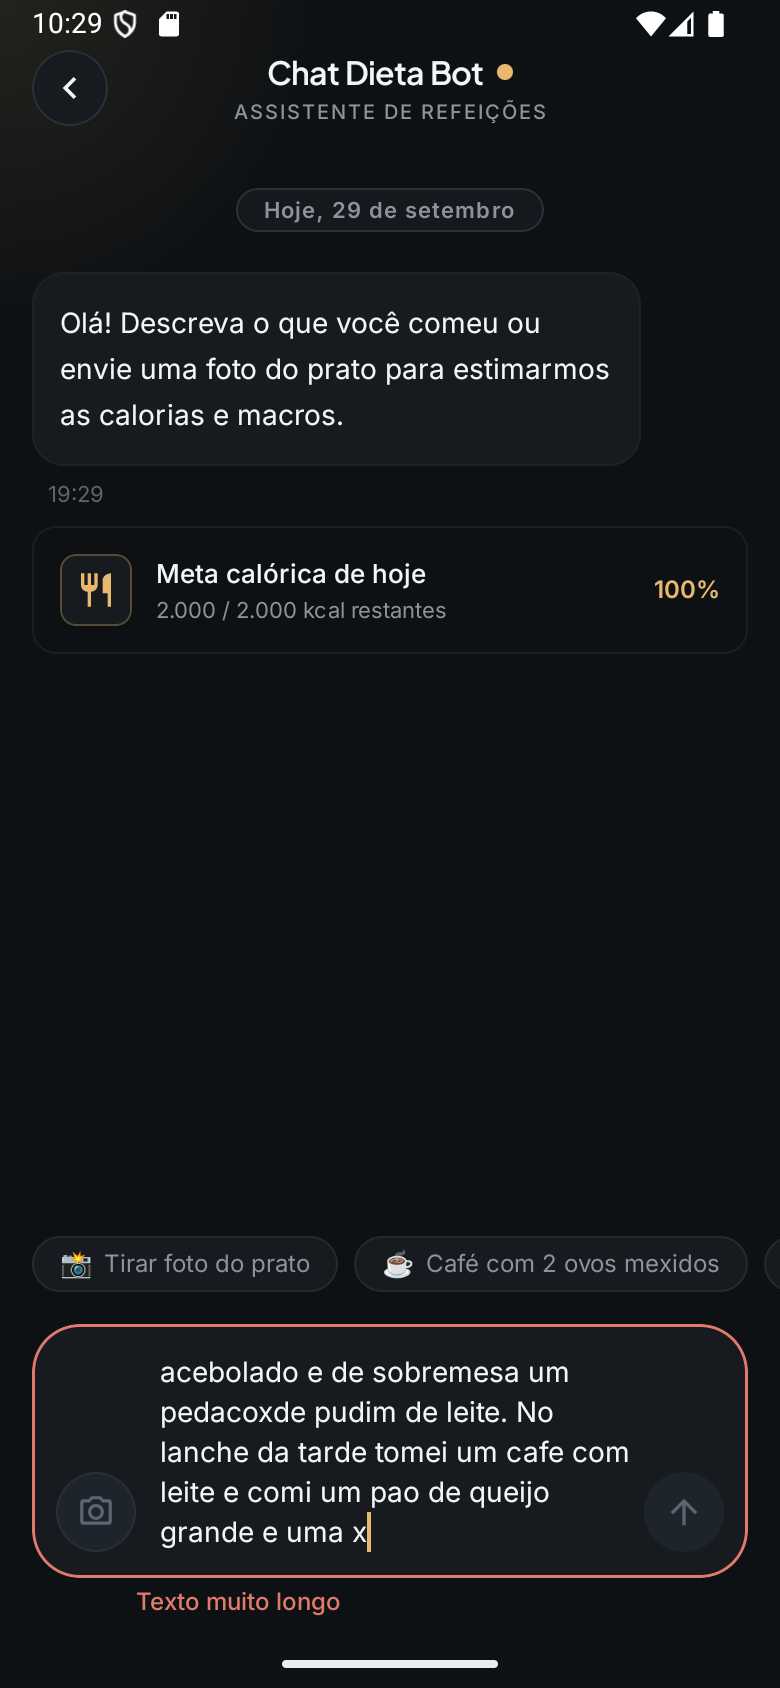
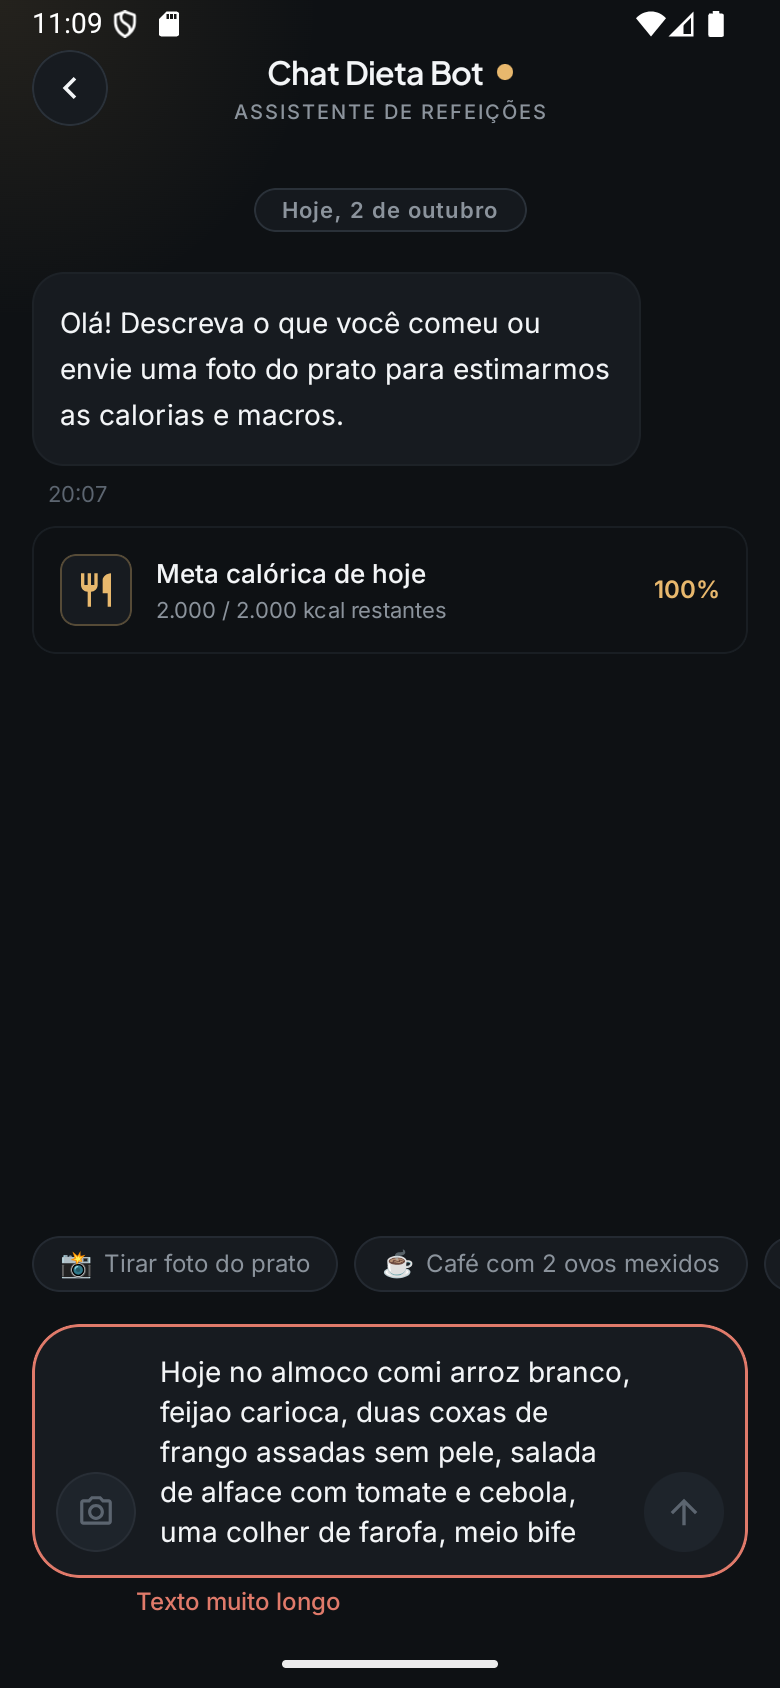
fix(qa): A36 chatX capture shows the top of the composer
The chatX scene typed 2100 characters and left the field scrolled to the
cursor at the end; the gold shows the first 5 lines. The scene now drags
the field to its first line with swipes (no key events: they flip Gboard
to physical-keyboard mode). diff-gold dark/chatX region 4.77% -> 0.89%.

diff --git a/docs/android/plans/completed/a36-capture-chatx-composer-topo.md b/docs/android/plans/completed/a36-capture-chatx-composer-topo.md
@@ -1,0 +1,123 @@
+# Plan — A36 capture-chat: chatX shows the top of the composer
+
+- Status: Concluído (02/10/2026)
+- Date: 02/10/2026
+- Owning context: `android`
+- Affected code: `tools/capture-chat.sh` only (client QA tooling). No app code, no `server/`, no gold change, no `tools/diff-gold.mjs` threshold or region change.
+- Prerequisites: none. No Stitch gate (the gold is unchanged and the layout already matches).
+
+## Authorization gate
+
+This plan is documentation only. Implementation starts only after an explicit approval naming this file:
+
+> Aprovo o plano `docs/android/plans/a36-capture-chatx-composer-topo.md`. Implemente o plano aprovado.
+
+If implementation reveals an uncovered decision, stop, update the artifacts and ask for a new approval.
+
+## Goal
+
+`node tools/diff-gold.mjs dark/chatX` passes its composer region gate (`REGIONS.chatX = [32, 1344, 748, 1668]`, ≤ 2 %) on a fresh `tools/capture-chat.sh` capture. Today it fails at 4.6–4.8 %. The committed capture (`docs/qa/android/current/dark/chatX.png`, from A25) scores 4.77 %, so the failure predates A34.
+
+## Root cause (measured 02/10/2026)
+
+The failure comes from the capture scene, not the Compose layout and not the gold.
+
+1. **The field shows the end of the text.** The A25 scene types 2100 characters with `adb shell input text`. The cursor ends at the last character, and `BasicTextField` (`maxLines = 5`) scrolls to keep the cursor visible. After `keyevent 4` hides the keyboard, the field keeps focus and stays scrolled to the end: "acebolado e de sobremesa um / pedacoxde pudim … / grande e uma x" plus the gold cursor. The gold (and `ChatFixtures.chatX`, used by the JVM `StitchGoldTest`) shows the **first** 5 lines, "Hoje no almoço comi arroz branco, / feijão carioca, …", with no cursor.
+2. **Attribution of the 4.77 %** (blurred diff at the best offset, dy = −46 px, same metric as `diff-gold.mjs`):
+   - text area (x 150–640, the 5 lines): **4.59 points**, about 96 % of the failing pixels;
+   - "Texto muito longo" line: 0.20 points (the known A25 offset: the app starts the label at the text field, 68 dp; the gold at 64 dp; measured 8 px);
+   - border, 24 dp radius, camera and send buttons, box height: 0.
+3. **Geometry matches** (measured in px, gold vs app): border x 32–747 in both; box height 255 vs 253; text start x 163 vs 162; line pitch ~39 vs ~40 px; gap from the border to the error line 15 px in both.
+4. **Why the JVM gate passes (0.82 %):** the fixture holds the gold's text, unfocused, scrolled to the top. Same layout, different content.
+5. A25 recorded this as "content, not layout" (`a25-limite-texto-composer.md`, emulator results), but `diff-gold.mjs` still gates the dark region. Every full run therefore exits 1.
+
+### Not a gold conflict (ADR-027)
+
+[ADR-027](../../adrs/ADR-027-golds-divergentes.md) covers disagreements between golds (state vs base, dark vs light) and spec vs gold rendering. None applies here: the dark gold, the light gold and the spec agree with the app's layout. The fix belongs to the capture scene. Adding `dark/chatX` to `REGION_REPORT_ONLY` would hide a real gate and is rejected.
+
+## Sources of truth
+
+- Gold `docs/qa/stitch/dark/chatX.png` (ST5), [A25](a25-limite-texto-composer.md), [ADR-022](../../../produto/adrs/ADR-022-limite-texto-chat.md) (text limit).
+- Code: `tools/capture-chat.sh` (chatX block, lines ~201–260), `tools/diff-gold.mjs` (`REGIONS.chatX`), `apps/android/.../feature/chat/ChatScreen.kt` (`Composer`, `ComposerRow`), `ChatFixtures.chatX`.
+
+## Implementation scope
+
+Only the chatX block of `tools/capture-chat.sh`.
+
+1. **Scroll to the top before the shot, by touch (revision 1).** After `keyevent 4` (keyboard hidden, field still focused, cursor at the end), drag the text field's content down with `input swipe` inside the `chat-input` bounds (from its top edge + 10 px to its bottom edge − 10 px, ~150 ms), repeated until the text is at the top (~2800 px of content: about 16 swipes; the script repeats a fixed count with margin). A drag scrolls the field without moving the cursor or emitting key events, so the IME stays in soft-keyboard mode.
+   - Before every swipe the script checks from a `uiautomator` dump that `chat-input` is present; if it is missing (the screen changed), it fails the scene with `✗` and does not send more input.
+   - Check `chat-too-long` is still shown, then `shot chatX`.
+2. **No cursor move after the shot.** The cursor never left the end, so the 100 backspaces still delete from the end. The existing checks (`2000: error gone`, `fake got 2000 characters`) confirm it. If the field scrolls back to the cursor on the first backspace, that is expected and harmless.
+3. **Leave alone:** the typed text. `adb input text` cannot type accents. In the first 5 lines only "almoço" and "feijão" differ from the ASCII text, and the line breaks match. The extra `x` at positions 2000 and 2100 sits far below line 5.
+
+The blinking cursor may appear at the start of line 1 in the capture (≤ 1 px wide gold bar). Its blurred footprint is estimated at under 0.1 % of the region; accepted.
+
+## Affected files
+
+- `tools/capture-chat.sh`.
+- `docs/qa/android/current/{dark,light}/chatX.png` (fresh captures, evidence).
+- `docs/android/README.md`, `docs/README.md` (plan index), this plan (lifecycle).
+
+## Planned validation
+
+1. `bash -n tools/capture-chat.sh`.
+2. On the gold-geometry AVD (`wm size 780x1688`, `wm density 320`) with `node tools/fake-chat-server.mjs` and the devDebug APK built with `-PAPI_PUBLIC_URL=http://10.0.2.2:8765`, dark and light: the chatX block of `tools/capture-chat.sh` runs, and its existing checks pass (`over 2000: Texto muito longo`, `camera did nothing`, `over 2000: 0 POST`, `2000: error gone`, fake gets 2000 characters).
+3. `node tools/diff-gold.mjs dark/chatX light/chatX`: dark region ≤ 2 % (gate), exit 0. The light region stays report-only (A25: the light gold paints the composer on the page colour); its new value is recorded.
+4. Written diff list (capture vs gold) in the results: layout, tokens, type size, radius, CTA, error line.
+5. No app code changes: `StitchGoldTest`, Roborazzi and unit tests are not affected and not required by this plan.
+
+## Out of scope
+
+- App code (`apps/android/`): the 4 dp start offset of "Texto muito longo" (68 vs 64 dp) stays as A25 recorded it (0.20 points, inside the gate).
+- `tools/diff-gold.mjs` regions, thresholds and report-only sets; golds; Stitch.
+- Typing accents through a third-party IME or clipboard tool (not needed for the gate; no new downloads).
+- Other capture scenes and the A33 flaky `input text` drop (already topped up by the script).
+
+## Risks and controls
+
+- **Key events are out (attempt 1):** no `keycombination`, DPAD or Home/End key before the shot; they flip Gboard to physical-keyboard mode and leave the chat (see § Implementation attempt 1).
+- **Drag does not scroll the field, or the field snaps back to the cursor:** stop and report; do not tap inside the field (a tap moves the cursor and reopens the keyboard). Remaining options then need an owner decision: a dev-only way to seed the composer text (app code, own plan) or a dated report-only exception for `dark/chatX` in `diff-gold.mjs`.
+- **A swipe lands outside the field after a screen change:** every swipe is preceded by a dump that finds `chat-input`; otherwise the scene fails without more input.
+- **Residual over 2 % after scrolling to the top:** stop, report the new attribution and propose the next step; do not loosen the gate.
+
+## Acceptance criteria
+
+- Fresh dark `chatX` capture shows the first 5 lines ("Hoje no almoco comi arroz branco, …"), red border and "Texto muito longo".
+- `node tools/diff-gold.mjs dark/chatX` region ≤ 2 %.
+- All existing A25 checks in the chatX block still pass.
+
+## Implementation attempt 1 (02/10/2026)
+
+Approved by the owner on 02/10/2026 ("Aprovo o plano `docs/android/plans/a36-capture-chatx-composer-topo.md`. Implemente o plano aprovado."). Stopped under § Risks and controls; nothing committed, `tools/capture-chat.sh` and the captures reverted.
+
+Setup: AVD `Medium_Phone` (API 36) at 780x1688 / 320 dpi, `node tools/fake-chat-server.mjs`, devDebug APK built with `-PAPI_PUBLIC_URL=http://10.0.2.2:8765`.
+
+- **Ctrl+Home (`input keycombination 113 122`)**: full `tools/capture-chat.sh dark` run. The A25 checks in the chatX block passed (`over 2000: Texto muito longo`, `camera did nothing`, `over 2000: 0 POST`, `2000: error gone`, `fake got 2000 characters`), but the cursor did not move: the field stayed at the end of the text. The key combination also switched Gboard to physical-keyboard mode, and its floating toolbar (mic, backspace, enter, emoji) covered the camera button and the left part of the composer. `diff-gold.mjs dark/chatX` region: **10.33 %** (was 4.77 %). Run stopped after the chatX block.
+- **DPAD fallback (`KEYCODE_DPAD_UP` × 30 + `KEYCODE_MOVE_HOME`)**, by hand on a 9-line text: the cursor stopped at the first *visible* line and the field did not scroll further. Two more DPAD_UP presses moved focus out of the field, and the app left Chat for Home. With Gboard in physical-keyboard mode, Back no longer only hid a keyboard: it closed Chat. Stray input after that opened system screens (a Google sign-in prompt and Quick Settings, both dismissed with Back/Home, nothing entered). The emulator was shut down (`-no-snapshot-save`, so its next boot is clean).
+- Conclusion: key events cannot move the composer to its first line reliably, and they change the IME mode for the rest of the run. Revision 1 replaces them with a touch drag (Implementation scope § 1–2). The drag itself is **not yet tested**.
+
+## Results (02/10/2026, revision 1)
+
+Revision 1 approved by the owner on 02/10/2026 ("Aprovo o plano `docs/android/plans/a36-capture-chatx-composer-topo.md`. Implemente o plano aprovado."). Same setup as attempt 1 (AVD `Medium_Phone`, API 36, 780x1688 / 320 dpi, fake server, devDebug APK on `http://10.0.2.2:8765`).
+
+- `tools/capture-chat.sh`, chatX block: after Back, 24 swipes (`input swipe`, 150 ms) from the top to the bottom of `chat-input`; each swipe preceded by a dump that finds the field, or `✗ chat-input gone while scrolling to the top` and no more input. No key events. Cursor left at the end; no change after the shot.
+- `bash -n tools/capture-chat.sh`: OK.
+- Dark, full run: the drag reached the first line ("Hoje no almoco comi arroz branco, / feijao carioca, duas coxas de / … / uma colher de farofa, meio bife", same line breaks as the gold), no cursor visible, keyboard and Gboard toolbar absent. A25 checks: `over 2000: Texto muito longo`, `camera did nothing`, `over 2000: 0 POST`, `2000: error gone`, `2000 characters answered`, `fake got 2000 characters` ✓. Run exit 1 from four checks in the A32 block "camera closes the keyboard" (`keyboard still open with the sheet`, `photo sheet open`, `not found: chat-photo-cancel`, `keyboard reopened on close`). They reproduce with `SCENES=a32` alone, which never runs the chatX block: outside A36, left for a separate follow-up.
+- Light, full run: chatX block and its A25 checks ✓ (same list). After it, the emulator and the fake server hit the agent's 30-minute background limit and were stopped; the A30 checks that followed failed for that reason only and are not evidence. `input text` dropped characters in this run ("coxade", "asss"; the script topped up to 2100 at the end), so the light lines differ from the gold's text.
+- `node tools/diff-gold.mjs dark/chatX light/chatX`: exit 0.
+
+| | before (A25 capture) | after |
+| --- | --- | --- |
+| `dark/chatX` region (gate ≤ 2 %) | ✗ 4.77 % | ✓ **0.89 %** |
+| `dark/chatX` whole screen (report only) | 6.65 % | 5.88 % |
+| `light/chatX` region (report only) | 7.24 % | 6.64 % |
+| `light/chatX` whole screen (report only) | 6.95 % | 6.91 % |
+
+### Diff list (capture vs gold `chatX`)
+
+- Layout: 5-line box, 24 dp radius, 40 dp camera and send at the bottom, red 1.5 dp border, "Texto muito longo" under the box: same. Label starts at 68 dp, gold 64 dp (A25, out of scope).
+- Tokens: border and label `bad`, box `card`, buttons `surf2`: same in dark. Light: the gold paints the box on the page colour (chat0 generation), the app on `card` (canonical chatE); report only since A25.
+- Type: 14 sp / 20 body, 12 sp W500 label: same. Text without accents (adb): "almoco", "feijao".
+- CTA, timeline, macros: not on this screen. Header and thread: chatX gold is a chat0 copy (other header), report only since A25.
+
+Only `docs/qa/android/current/{dark,light}/chatX.png` are kept from the runs; the other captures they refreshed were reverted.

diff --git a/docs/README.md b/docs/README.md
@@ -9,7 +9,7 @@ Constituição: [`../AGENTS.md`](../AGENTS.md). Não duplicar regras aqui.
 | Contexto | Tipo | Código | Spec viva | ADR local | Plano ativo | Validação |
 |---|---|---|---|---|---|---|
 | [produto](produto/README.md) | produto | — | [specifications/](produto/specifications/) | [ADR-012](produto/adrs/ADR-012-chat-home-perfil.md); [ADR-026](produto/adrs/ADR-026-perguntas-antes-da-estimativa.md); [ADR-028](produto/adrs/ADR-028-registro-autonomo.md) | nenhum | [qa/](qa/) |
-| [android](android/README.md) | client | `apps/android/` | [room-v2](android/specifications/room-v2.md) | [ADR-014](android/adrs/ADR-014-flavors-firebase-dev.md), [ADR-027](android/adrs/ADR-027-golds-divergentes.md) | [A0 arch, tokens, Roborazzi, A1–A33](android/plans/completed/) concluídos (A11, A17–A22, A24, A25, A27–A30 aprovado pelo dono em 30/09/2026; A31–A33 em 01/10/2026); [A34](android/plans/pending_manual_validation/a34-registro-autonomo.md) pendente aprovação manual; [A35](android/plans/out_of_scope/a35-registro-retroativo.md) fora de escopo | [qa/android/](qa/android/) |
+| [android](android/README.md) | client | `apps/android/` | [room-v2](android/specifications/room-v2.md) | [ADR-014](android/adrs/ADR-014-flavors-firebase-dev.md), [ADR-027](android/adrs/ADR-027-golds-divergentes.md) | [A0 arch, tokens, Roborazzi, A1–A33](android/plans/completed/) concluídos (A11, A17–A22, A24, A25, A27–A30 aprovado pelo dono em 30/09/2026; A31–A33 em 01/10/2026); [A34](android/plans/pending_manual_validation/a34-registro-autonomo.md) pendente aprovação manual; [A35](android/plans/out_of_scope/a35-registro-retroativo.md) fora de escopo; [A36](android/plans/completed/a36-capture-chatx-composer-topo.md) concluído em 02/10/2026 | [qa/android/](qa/android/) |
 | [stitch](stitch/README.md) | gate de design | — (golds + `tools/export-stitch.mjs`) | — | — | [ST1–ST9](stitch/README.md#planos) concluídos (ST9 em 02/10/2026, golds `chatU` e `chatD`); [SV1](stitch/plans/completed/sv1-verificacao-automatica.md) concluído | `tools/check-stitch.mjs`, `tools/verify-stitch.mjs st<n>` |
 | [server](server/README.md) | contrato HTTP | `server/` | [v1-chat](server/specifications/v1-chat.md) + [api-contract.md](api-contract.md) | [ADR-013](server/adrs/ADR-013-gcp-host.md), [ADR-015](server/adrs/ADR-015-log-conversa-dev.md) | [S1–S15](server/plans/completed/) concluídos (S6, S8, S11, S12 aprovado pelo dono em 30/09/2026; [S13](server/plans/completed/s13-perguntas-antes-da-estimativa.md) no ar no dev em 30/09/2026; [S14](server/plans/completed/s14-registro-autonomo.md) e [S15](server/plans/completed/s15-registro-casos-dificeis.md) no ar no dev em 02/10/2026) | `server/tests/` |
 

diff --git a/docs/android/README.md b/docs/android/README.md
@@ -126,6 +126,10 @@ Registro autônomo ([ADR-028](../produto/adrs/ADR-028-registro-autonomo.md), ace
 - [A34 Registro autônomo, recibos com ações](plans/pending_manual_validation/a34-registro-autonomo.md) — pendente aprovação manual (código, testes, golds e captura entregues em 02/10/2026; falta a rodada manual do dono no servidor dev e o DebugView); [S14](../server/plans/completed/s14-registro-autonomo.md) e gate [ST9](../stitch/plans/completed/st9-registro-autonomo.md); Room v8
 - [A35 Registro retroativo](plans/out_of_scope/a35-registro-retroativo.md) — fora de escopo (decisão do dono, 01/10/2026)
 
+QA visual:
+
+- [A36 capture-chat: chatX mostra o topo do composer](plans/completed/a36-capture-chatx-composer-topo.md) — só `tools/capture-chat.sh`; região `dark/chatX` 4,77 % → 0,89 % (composer arrastado até a primeira linha); concluído em 02/10/2026
+
 Ajustes de O1 e Chat (decisões do dono em 01/10/2026):
 
 - [A31 O1: perfil obrigatório e navegação pelo teclado](plans/completed/a31-o1-perfil-obrigatorio-teclado.md) — gate [ST8](../stitch/plans/completed/st8-teto-sem-perfil.md), gold `o1e`; concluído em 01/10/2026
